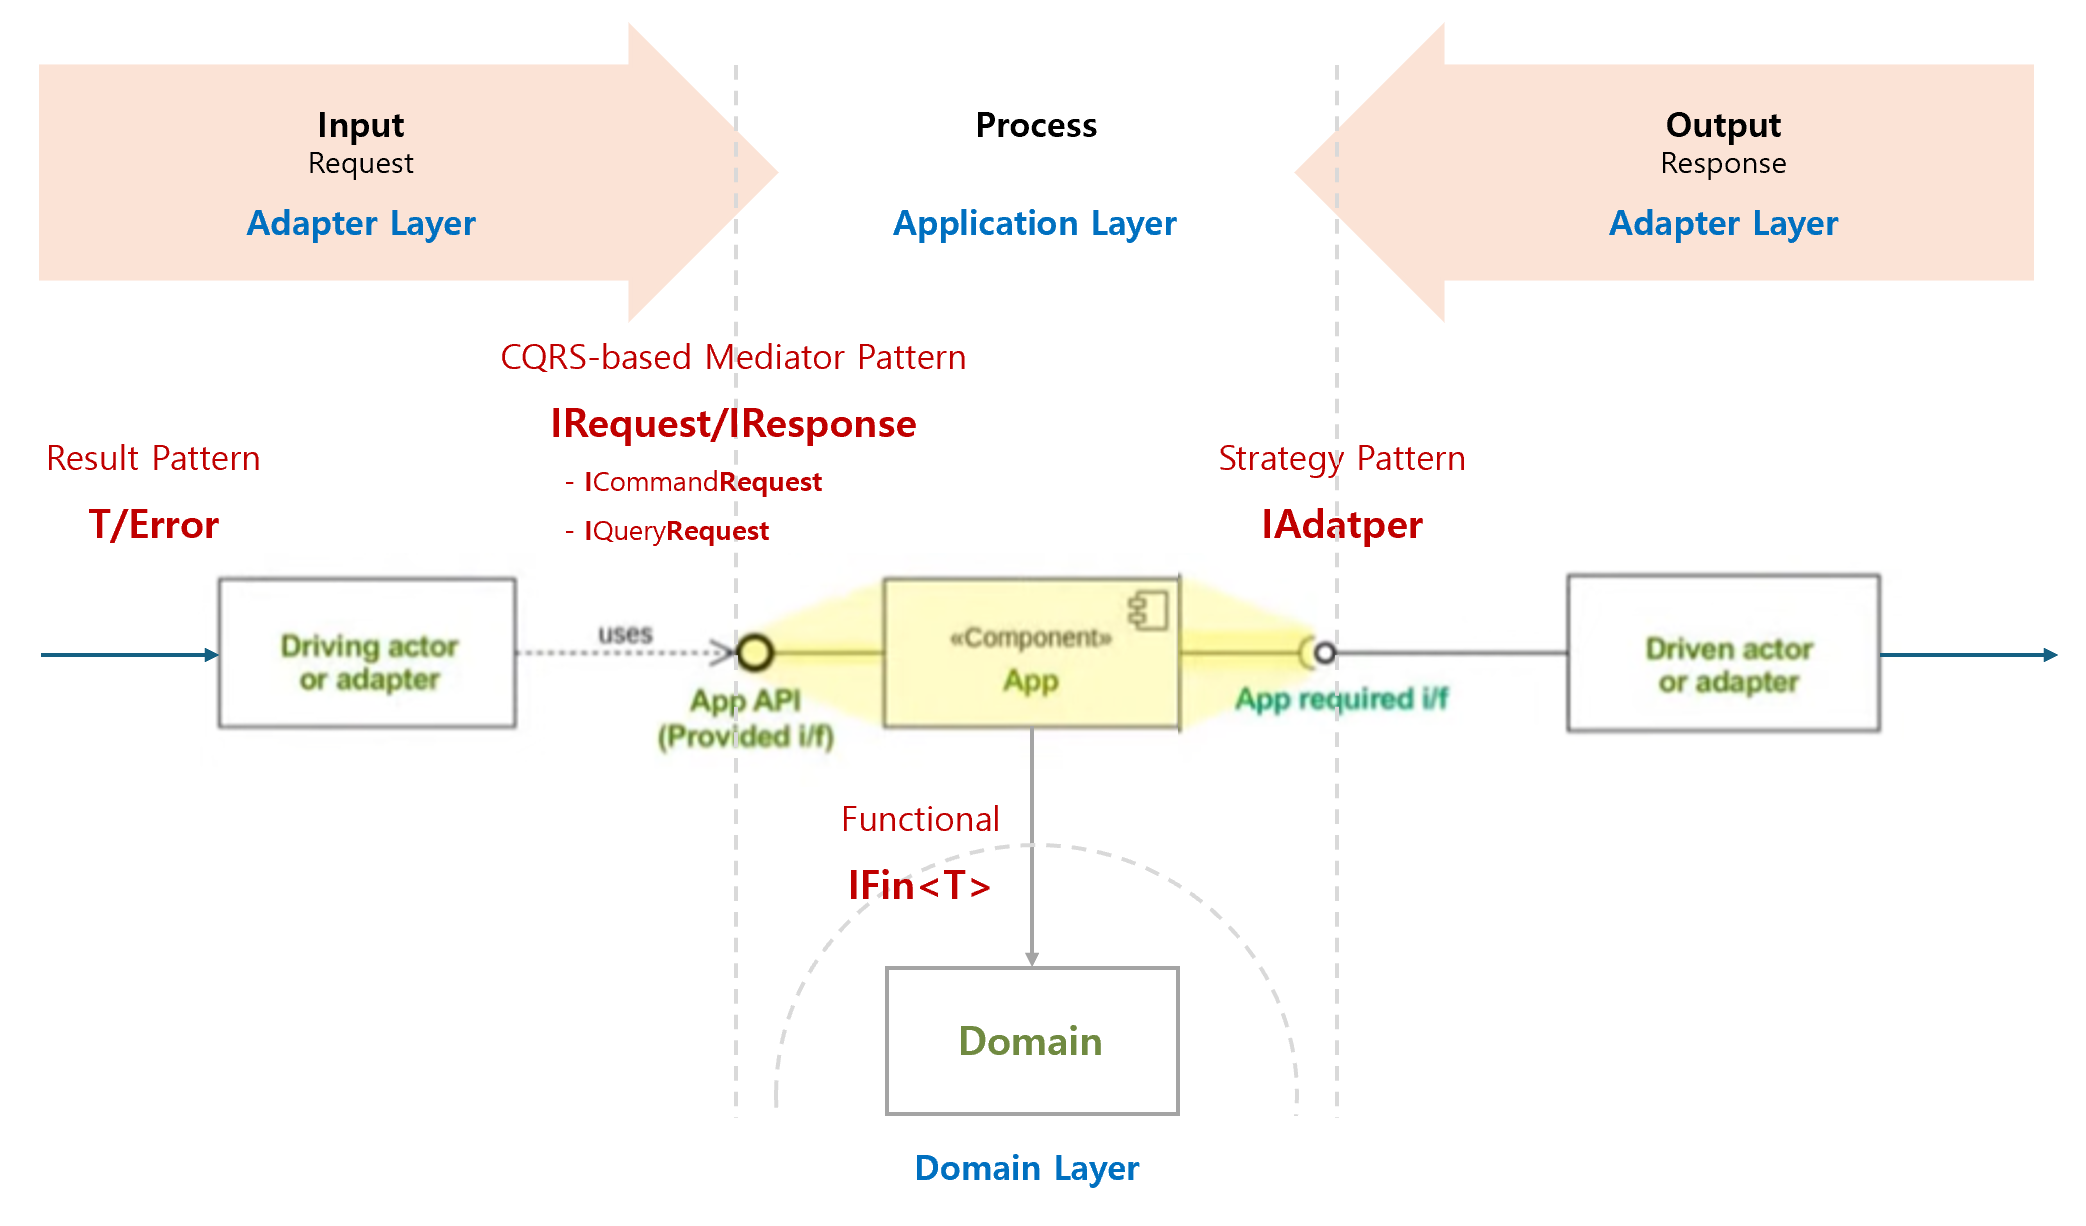
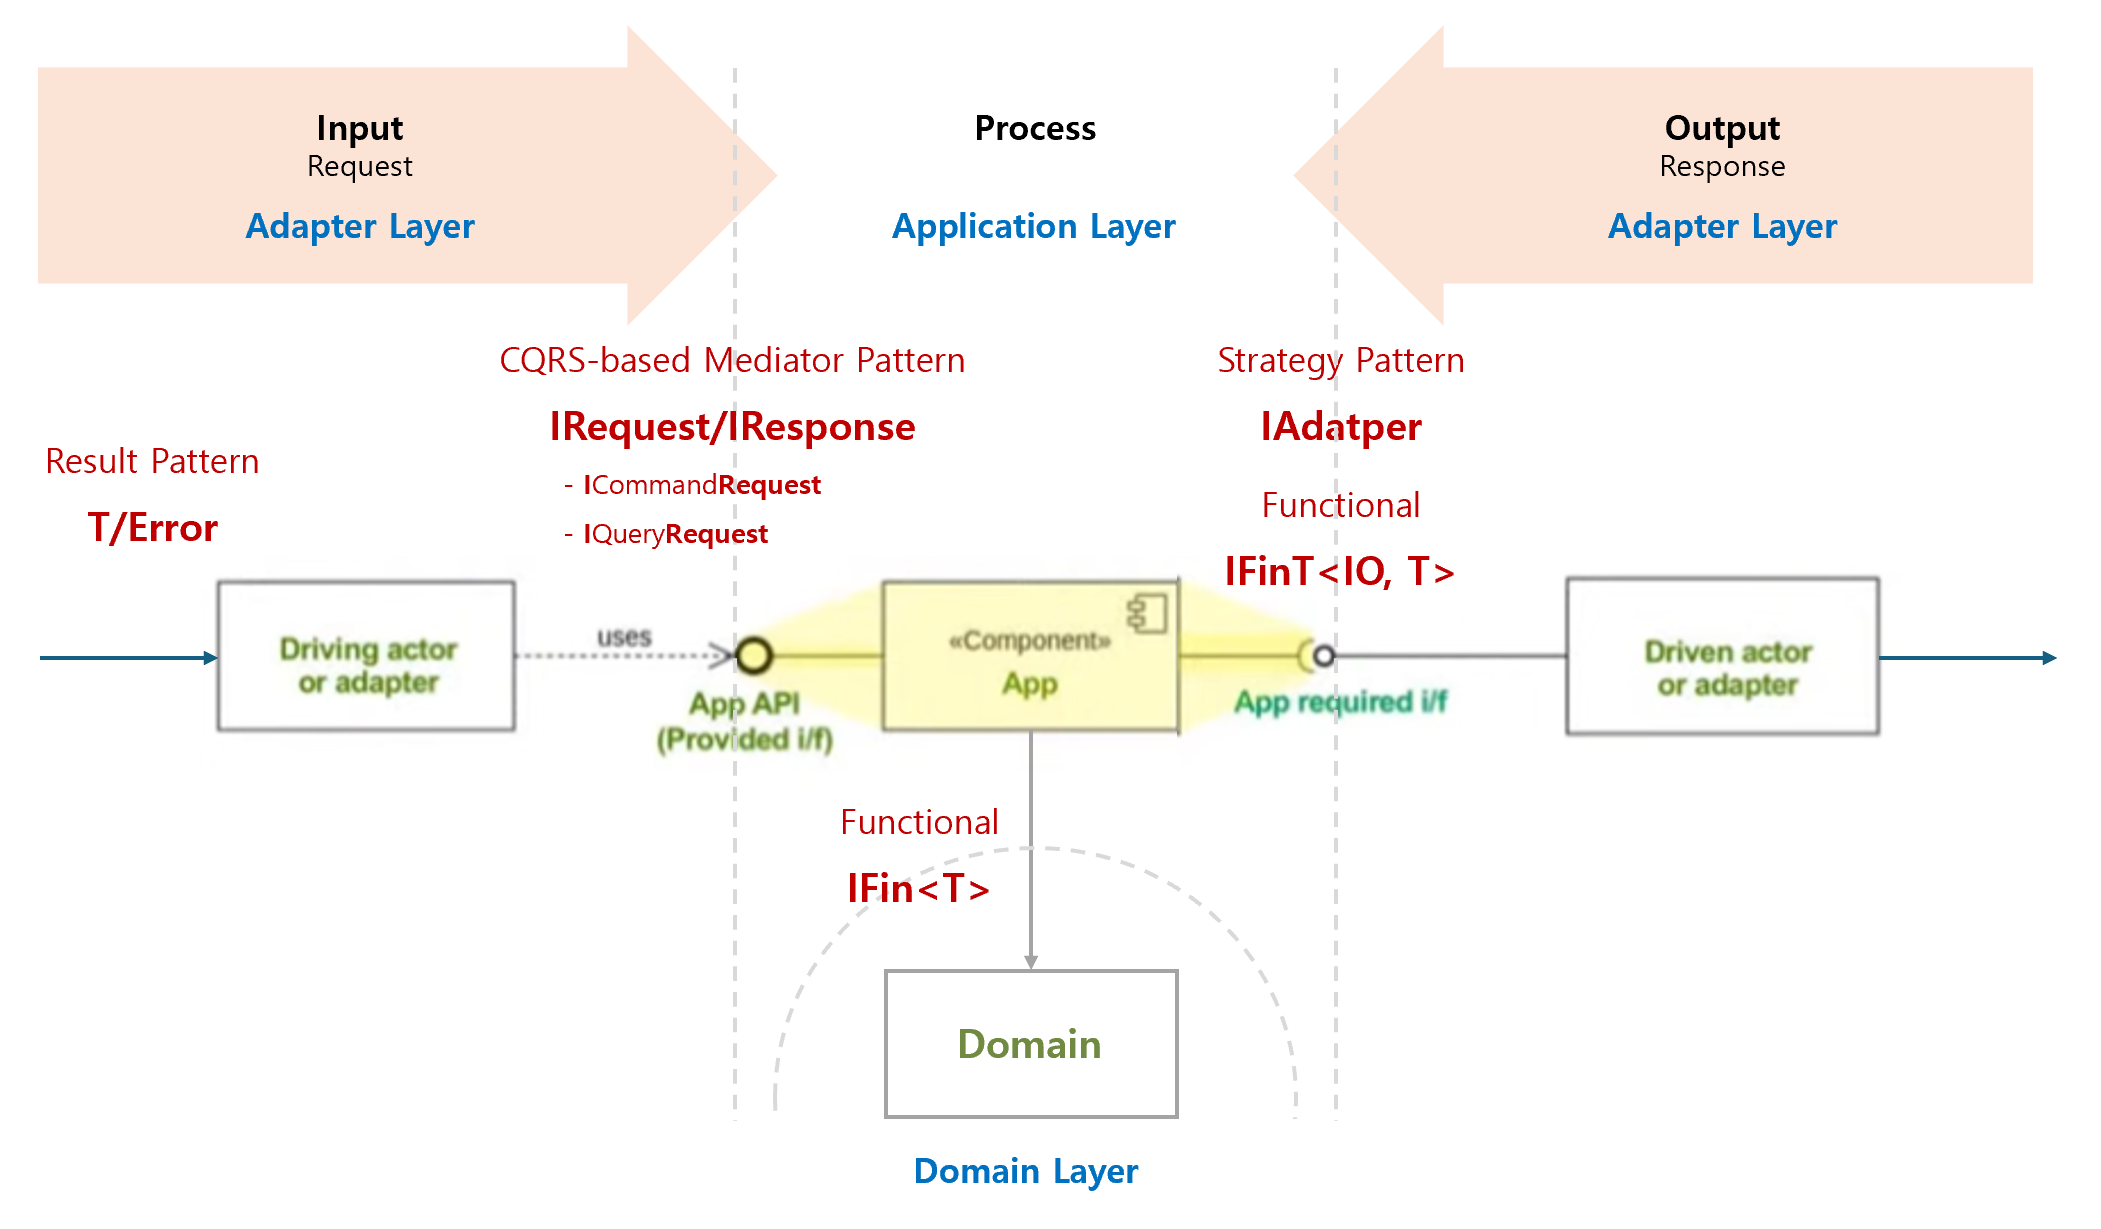
docs: 아키텍처 문서 및 README 업데이트
- README.md: 프로젝트 설명 보완
- InternalArchitecture.png: 아키텍처 다이어그램 업데이트
- InternalArchitecture_Testing.png: 테스트 아키텍처 이미지 이름 변경
- README.md (아키텍처): 이미지 참조 경로 수정
- README.pptx: 프레젠테이션 업데이트
- 불필요한 이미지 파일 삭제 (InternalArchitecture_Test.png, pwm.png)

diff --git a/README.md b/README.md
@@ -1,4 +1,5 @@
 # Functorium
 > A functional domain = **functor** + domin**ium**
+> - a well-designed system makes it easy to do the right things and annoying (but not impossible) to do the wrong things
 
 - [Architecture](./Docs/ArchitectureIs/README.md)
